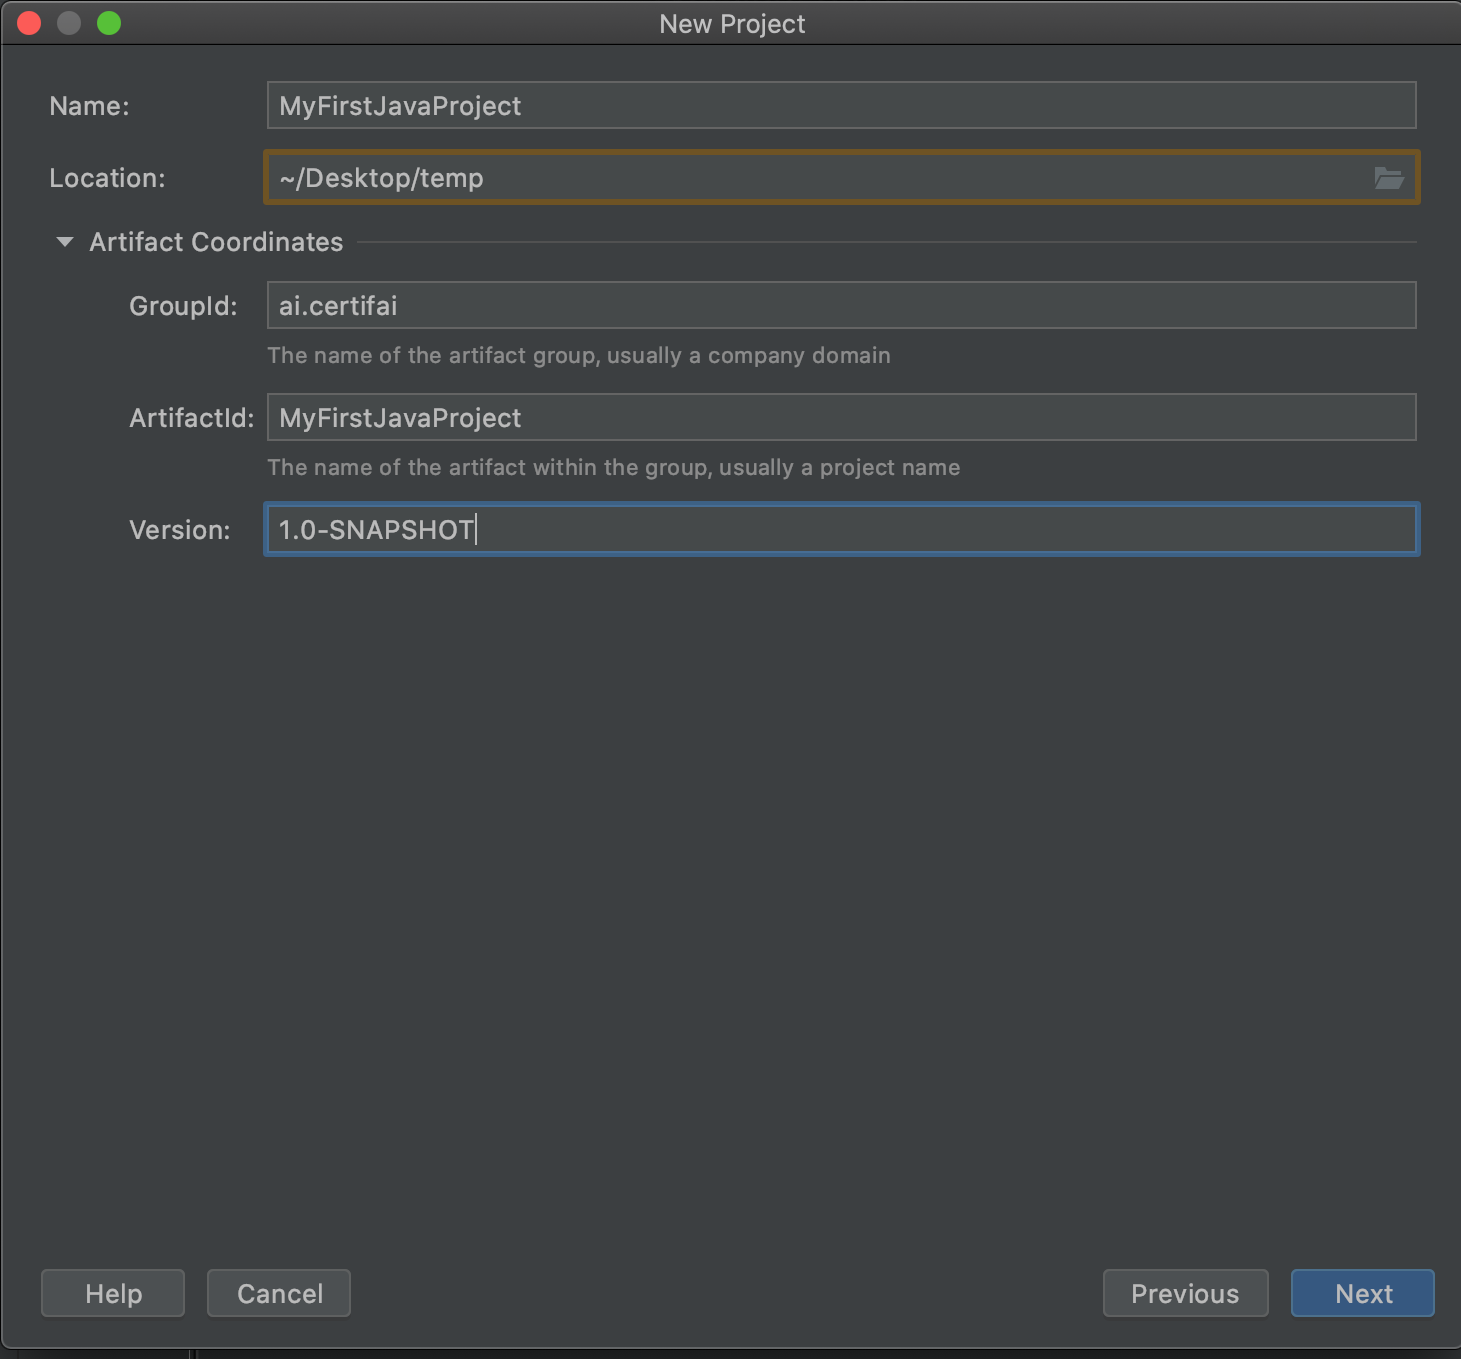
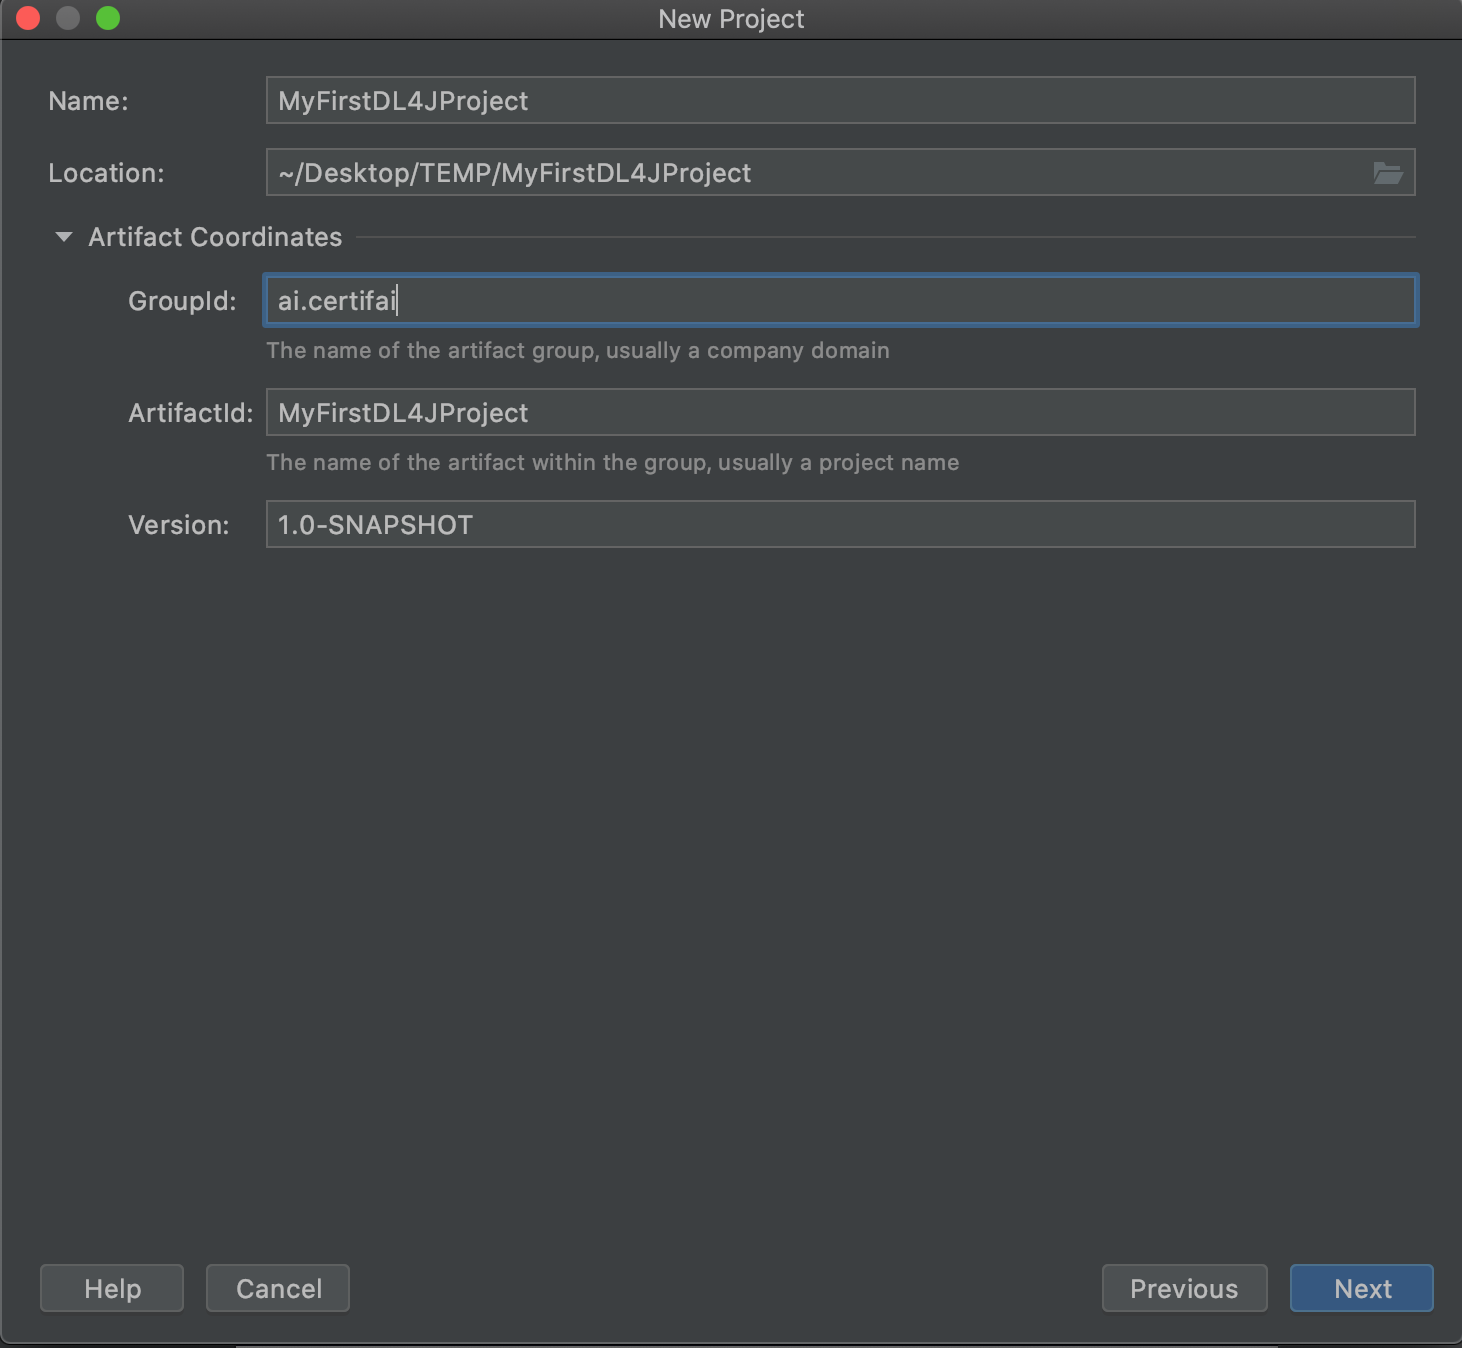
wip

diff --git a/java-core/src/main/java/ai/certifai/maven/maven.md b/java-core/src/main/java/ai/certifai/maven/maven.md
@@ -52,8 +52,8 @@ Step 1: Create a new project in Intellij
         - Name: MyFirstJavaProject
    - **Location**: Directory where the project will be created
     - Example:
-        - Location: ~/Desktop/temp
-   - **GroupId**: Reverse domain name of the organization. The purpose of GroupId is to makes the project recognizatble across all available projects.
+        - Location: ~/Desktop/TEMP/MyFirstDL4JProject
+   - **GroupId**: Reverse domain name of the organization. The purpose of GroupId is to makes the project recognizable across all available projects.
        - Example:
            - GroupID: ai.certifai
    - **ArtifactId**: Name of Artifact. By default same with the name of the project
@@ -131,20 +131,54 @@ Else, Apache Maven would download the dependency from the cloud by referring to 
   <img src="metadata/maven_graphic_2.jpg">
 </p>  
 
-### Multi-Modules Project
+### 2.4 Multi-Modules Project :man_technologist: :woman_technologist:
 
+- Multi modules project is more complex compared to single module project.  
+- There's a root pom.xml for the whole repository and a child pom.xml per module.  
+    -  The root pom.xml in the root folder provide information which is leverage in every child module. 
+    
 <p align="center">
   <img width="350" height="400" src="metadata/pom_2.png">
 </p>  
 
-
-  - root and sub pom.xml
+:question: 
+How many pom.xml is in the [**TrainingLabs**](https://github.com/CertifaiAI/TrainingLabs.git) repository? 
   
-### Chapter 3 Useful hacks of Apache Maven with Intellij
+### Chapter 3 Useful day-to-day operations with Apache Maven & Intellij :man_technologist: :woman_technologist:
 
+- When importing a Maven project into Intellij, open a new project pointing to the root pom.xml.  
 
-### import by pom.xml
+Step 1: Import an existing project
 
-### invalidate cache and restart
+- There's two approaches in importing an existing project. 
+  First of all, open Intellij in your host system. 
 
-### Reimport project after change of pom.xml
+1. (Option 1) Click "Open or Import" in the "Welcome to IntelliJ IDEA" interface. 
+<p align="center">
+  <img src="metadata/import0.jpg">
+</p>  
+
+1. (Option 2) If there's an existing project opened, create a new project by going to **File -> New -> Project from Existing Sources**
+<p align="center">
+  <img src="metadata/import_1.jpg">
+</p>  
+
+2. Select the root pom.xml of the repository in which intend to open in Intellij.
+<p align="center">
+  <img src="metadata/import_2.jpg">
+</p>  
+
+- When the IDE is not behave like what you are expecting,  
+one of the few debugging steps an individual can try to do is clear the cache and restart to see if it solves the problem.
+<p align="center">
+  <img src="metadata/invalidate.jpg">
+</p>  
+
+- **The changes in pom.xml will not automatically be reflected when the program is run**.  
+- Always remember to reload the project once make changes to any of the pom.xml.  
+
+1. Right click on the repository name. Find **Maven -> Reimport** from the categories.  
+    - In some system, it's **Maven -> Reload project**. Both serves the same purpose.
+<p align="center">
+  <img src="metadata/invalidate.jpg">
+</p>  
